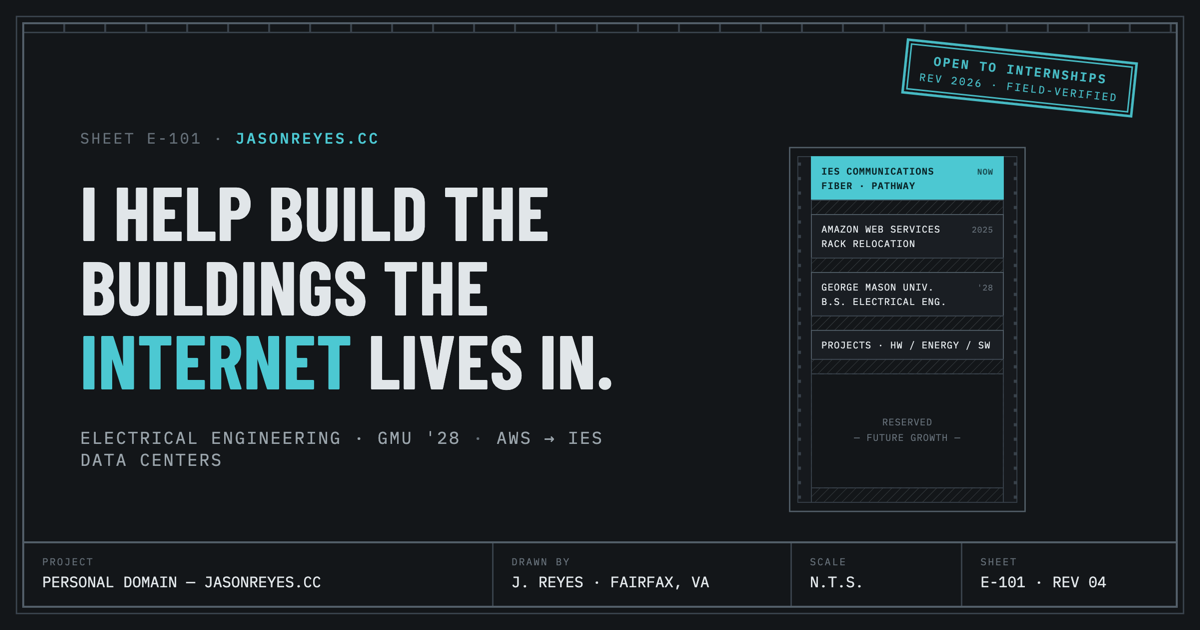
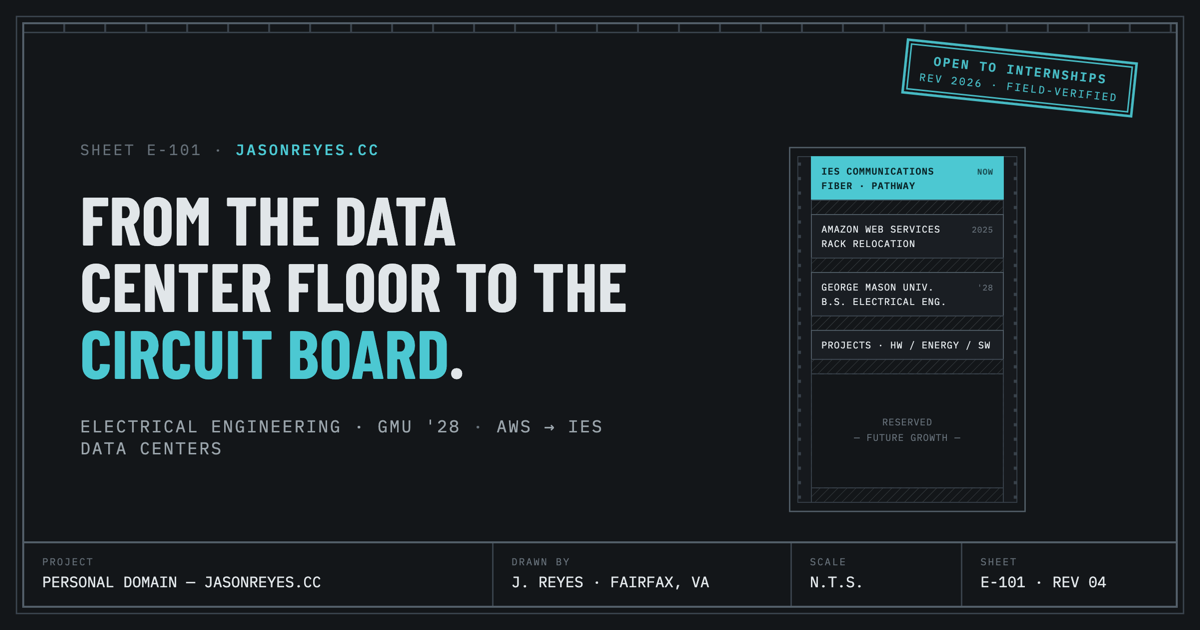
Rework hero headline: "From the data center floor to the circuit board"
Leads with the trajectory instead of the buildings; sub-line reworked
to match. og-image regenerated with the new headline.

diff --git a/index.html b/index.html
@@ -55,12 +55,12 @@
 
         <div class="hero__copy">
           <p class="hero__eyebrow">SHEET E-101 · GENERAL NOTES · <b>DRAWN BY JR</b></p>
-          <h1 class="hero__title">I help build the buildings the <em>internet</em> lives in.</h1>
+          <h1 class="hero__title">From the data center floor to the <em>circuit board</em>.</h1>
           <p class="hero__sub">
-            EE sophomore at George Mason. I've relocated server racks inside
-            <strong>live AWS data centers</strong> and now install fiber pathway on
-            <strong>hyperscale build-outs</strong> — and I'm learning to design
-            the circuits that run inside them.
+            I've built the physical internet with my hands — relocating racks in
+            <strong>live AWS data centers</strong>, pulling fiber on
+            <strong>hyperscale build-outs</strong>. Now I'm studying EE at George Mason
+            to design what runs inside it.
           </p>
           <div class="hero__actions">
             <a href="projects.html" class="btn btn--primary">View Project Log →</a>
